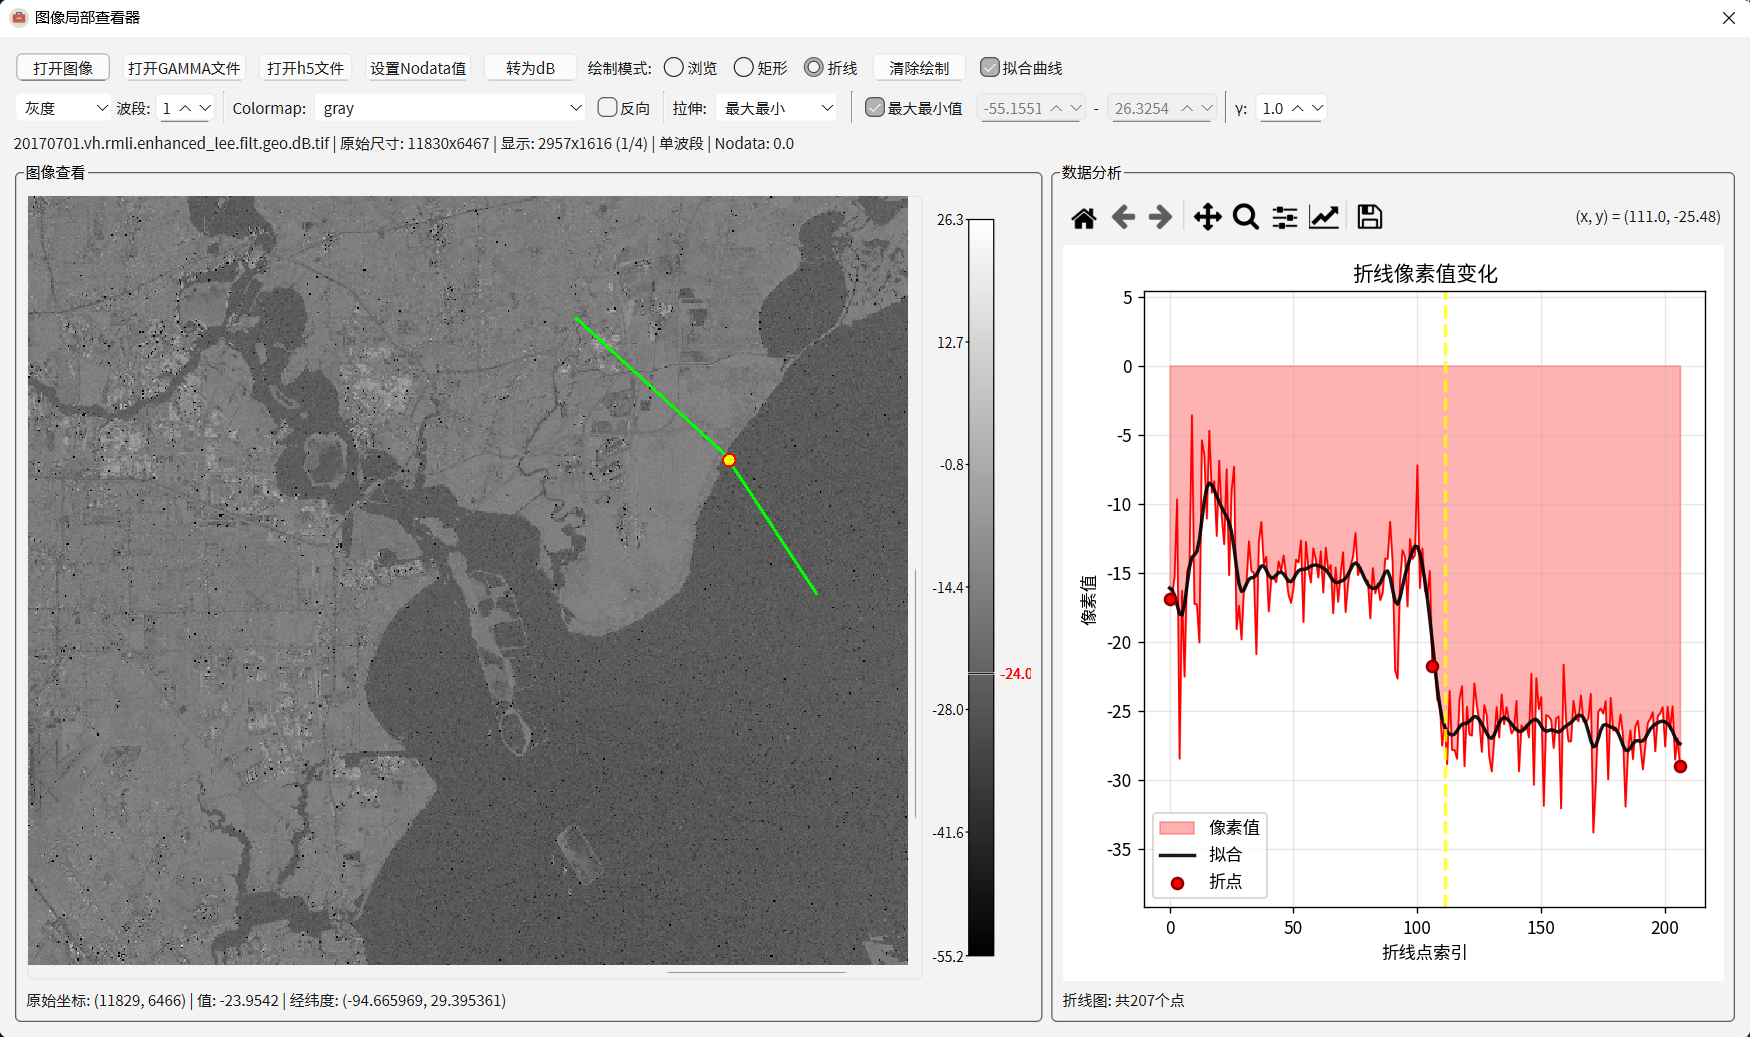
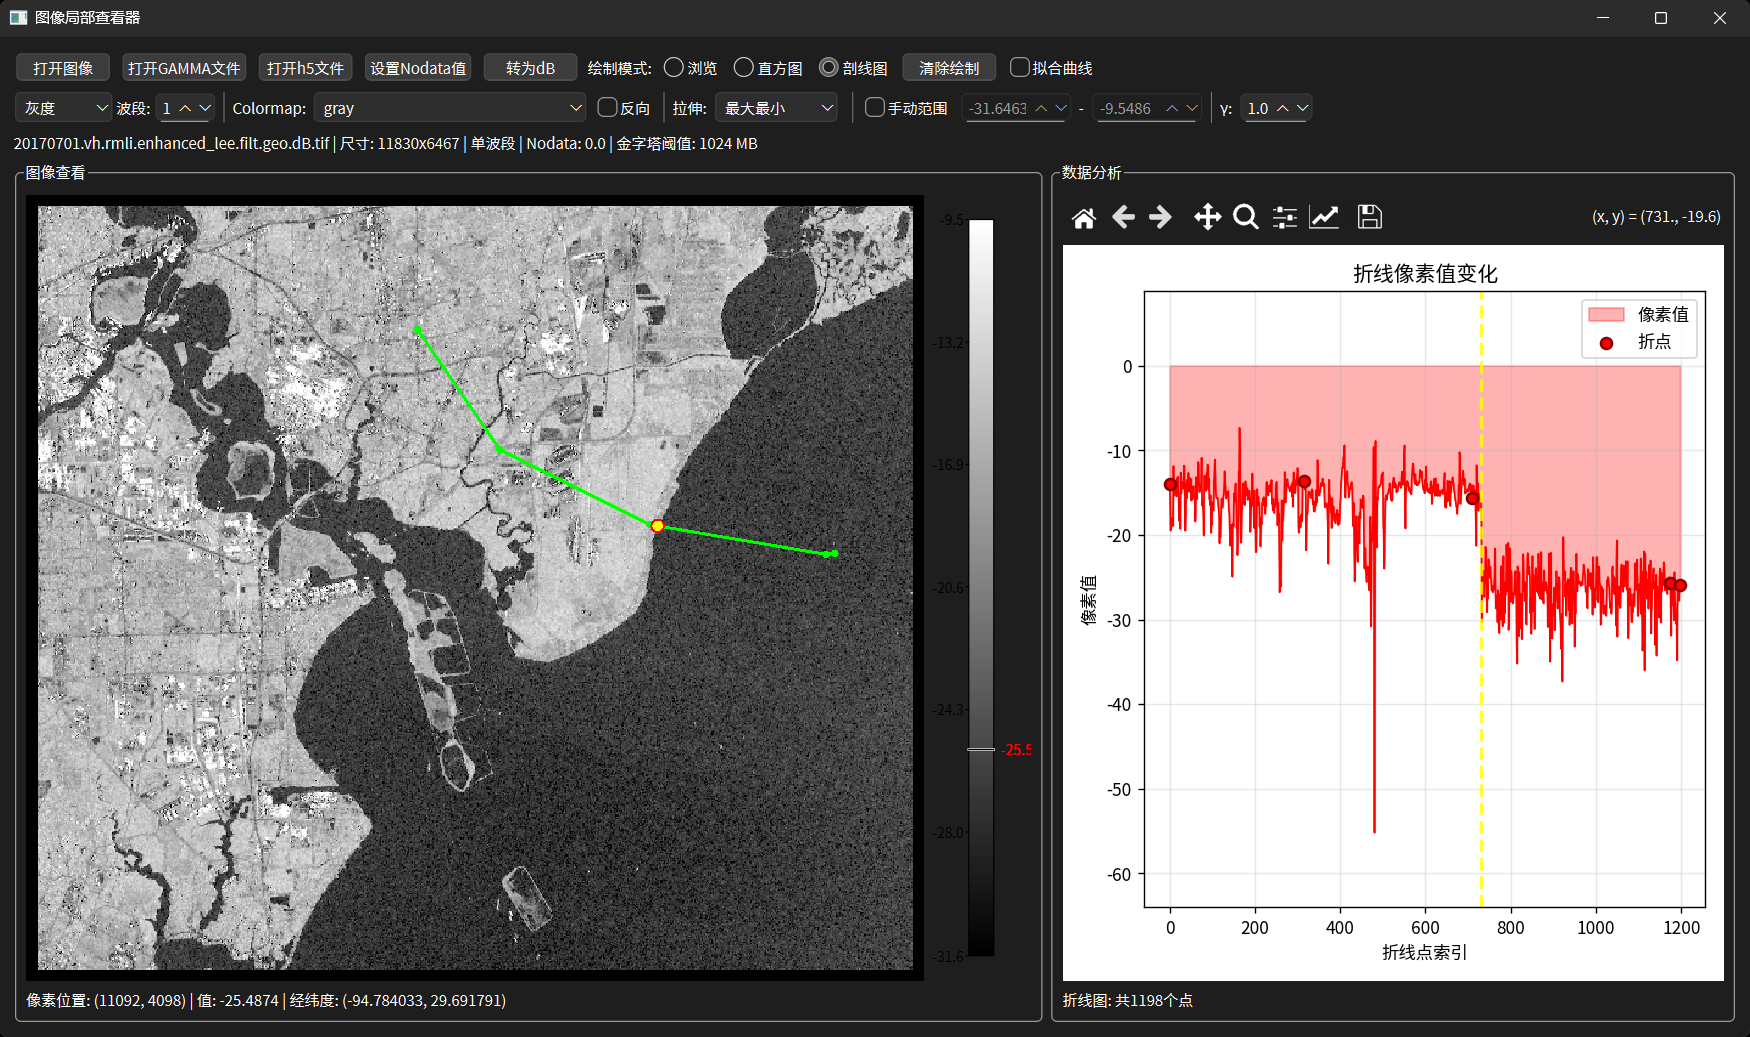
📃 docs: v1.7.0 修改文档

diff --git a/__init__.py b/__init__.py
@@ -1,10 +1,12 @@
 """
-Toolbox - 一个地理信息工具箱应用
+Toolbox - 一个遥感数据处理工具箱
 
-这个包提供了各种地理数据处理工具，包括：
-- 栅格数据处理
-- 矢量数据处理
-- 坐标转换
+这个包提供了各种遥感数据处理工具，包括：
+- 图像局部查看器
+- 像素时序查看器
+- 图像分割工具
+- TIFF边界转矢量
+- 栅格数据获取工具
 等功能
 
 作者: Yibo Yuan (2633669459@qq.com)

diff --git a/README.md b/README.md
@@ -12,7 +12,70 @@
   <img src="imgs/main.png" alt="主界面">
 </p>
 
-### 1. TIFF 边界转矢量
+### 1. 像素时序查看器
+
+导入时序数据，查看每个像素的时序曲线
+
+- 支持 TIFF/GeoTIFF 时序影像、 MintPy h5 时序形变数据以及GAMMA二进制时序数据
+- 双图像窗口同步显示
+
+**使用方法：**
+
+1. 点击主界面"像素时序查看器"按钮
+2. 选择数据类型：
+   - **TIFF时序**：点击"打开TIFF文件夹"，选择包含时序TIFF文件的文件夹
+   - **h5文件**：点击"打开h5文件"，选择MintPy生成的h5文件
+   - **GAMMA时序**：点击"打开GAMMA时序数据"，选择包含GAMMA二进制文件的文件夹（自动检测PAR文件）
+3. 使用滑块或下拉列表切换不同时间点的影像
+4. 在图像上点击像素，右侧图表显示该像素的时序曲线
+5. 可调整colormap、缩放图像、导出数据、将GAMMA强度数据转为dB形式
+
+<p align="center">
+  <img src="imgs/sereis.png" alt="像素时序查看器">
+</p>
+
+### 2. 图像局部查看器
+
+绘制矩形查看局部区域直方图，绘制折线查看沿线像素变化曲线
+
+- 支持 TIFF/GeoTIFF、PNG、JPG 等常见格式、MintPy h5 数据文件以及GAMMA二进制文件
+  **使用方法：**
+
+1. 点击主界面"图像局部查看器"按钮
+2. 打开图像文件：
+   - **常规图像**：点击"打开图像"选择TIFF/PNG/JPG等文件
+   - **h5文件**：点击"打开h5文件"，选择数据集
+   - **GAMMA文件**：点击"打开GAMMA文件"，选择二进制文件（自动或手动选择PAR参数文件）
+3. 使用绘图工具：
+   - **直方图工具**：点击"直方图"，在图像上拖动绘制矩形，查看区域直方图
+   - **剖线图工具**：点击"剖线图"，在图像上依次点击绘制折线，右键完成，查看沿线像素值变化
+4. 鼠标悬停在折线上可查看对应位置的像素值
+5. 可调整colormap、缩放图像、导出区域数据、将GAMMA强度数据转为dB形式
+<p align="center">
+  <img src="imgs/local.png" alt="图像局部查看器">
+</p>
+
+### 3. 图像分割工具
+
+对图像进行人工标注以及魔法棒的半自动分割
+
+- 支持矩形、多边形、笔刷、橡皮擦等人工标注工具以及类似PS的魔法棒的半自动分割工具
+- 支持栅格掩膜、矢量、深度学习标注文件等多格式结果导出
+
+**使用方法：**
+
+1. 点击右上角菜单栏选项打开图像，可调整拉伸方式、Colormap等渲染方式
+2. 保存项目或打开执行项目
+3. 使用矩形、多边形等工具人工标注图像
+4. 使用魔法棒工具自动识别颜色一致的区域，可在参数面板调整魔法棒参数
+5. 使用笔刷、橡皮擦工具人工修补掩膜，按ctrl键+滚轮可调整笔刷/橡皮擦粗细
+6. 导出分割结果为掩膜或矢量
+
+<p align="center">
+  <img src="imgs/segment.png" alt="图像分割工具">
+</p>
+
+### 4. TIFF 边界转矢量
 
 根据导入的 TIFF 数据，将其矩形边界转成矢量数据
 
@@ -30,50 +93,7 @@
   <img src="imgs/boundary.png" alt="TIFF边界转矢量">
 </p>
 
-### 2. 像素时序查看器
-
-导入时序数据，查看每个像素的时序曲线
-
-- 支持 TIFF/GeoTIFF 时序影像、 MintPy h5 时序形变数据以及GAMMA二进制时序数据
-- 双图像窗口同步显示
-
-**使用方法：**
-
-1. 点击主界面"像素时序查看器"按钮
-2. 选择数据类型：
-   - **TIFF时序**：点击"打开TIFF文件夹"，选择包含时序TIFF文件的文件夹
-   - **h5文件**：点击"打开h5文件"，选择MintPy生成的h5文件
-   - **GAMMA时序**：点击"打开GAMMA时序数据"，选择包含GAMMA二进制文件的文件夹（自动检测PAR文件）
-3. 使用滑块切换不同时间点的影像
-4. 在图像上点击像素，右侧图表显示该像素的时序曲线
-5. 可调整colormap、缩放图像、导出数据、将GAMMA强度数据转为dB形式
-
-<p align="center">
-  <img src="imgs/sereis.png" alt="像素时序查看器">
-</p>
-
-### 3. 图像局部查看器
-
-绘制矩形查看局部区域直方图，绘制折线查看沿线像素变化曲线
-
-- 支持 TIFF/GeoTIFF、PNG、JPG 等常见格式、MintPy h5 数据文件以及GAMMA二进制文件
-  **使用方法：**
-
-1. 点击主界面"图像局部查看器"按钮
-2. 打开图像文件：
-   - **常规图像**：点击"打开图像"选择TIFF/PNG/JPG等文件
-   - **h5文件**：点击"打开h5文件"，选择数据集
-   - **GAMMA文件**：点击"打开GAMMA文件"，选择二进制文件（自动或手动选择PAR参数文件）
-3. 使用绘图工具：
-   - **矩形工具**：点击"绘制矩形"，在图像上拖动绘制矩形，查看区域直方图
-   - **折线工具**：点击"绘制折线"，在图像上依次点击绘制折线，右键完成，查看沿线像素值变化
-4. 鼠标悬停在折线上可查看对应位置的像素值
-5. 可调整colormap、缩放图像、导出区域数据、将GAMMA强度数据转为dB形式
-<p align="center">
-  <img src="imgs/local.png" alt="图像局部查看器">
-</p>
-
-### 4. 栅格数据获取工具
+### 5. 栅格数据获取工具
 
 可根据研究区范围从本地或在线数据源获取栅格数据
 
